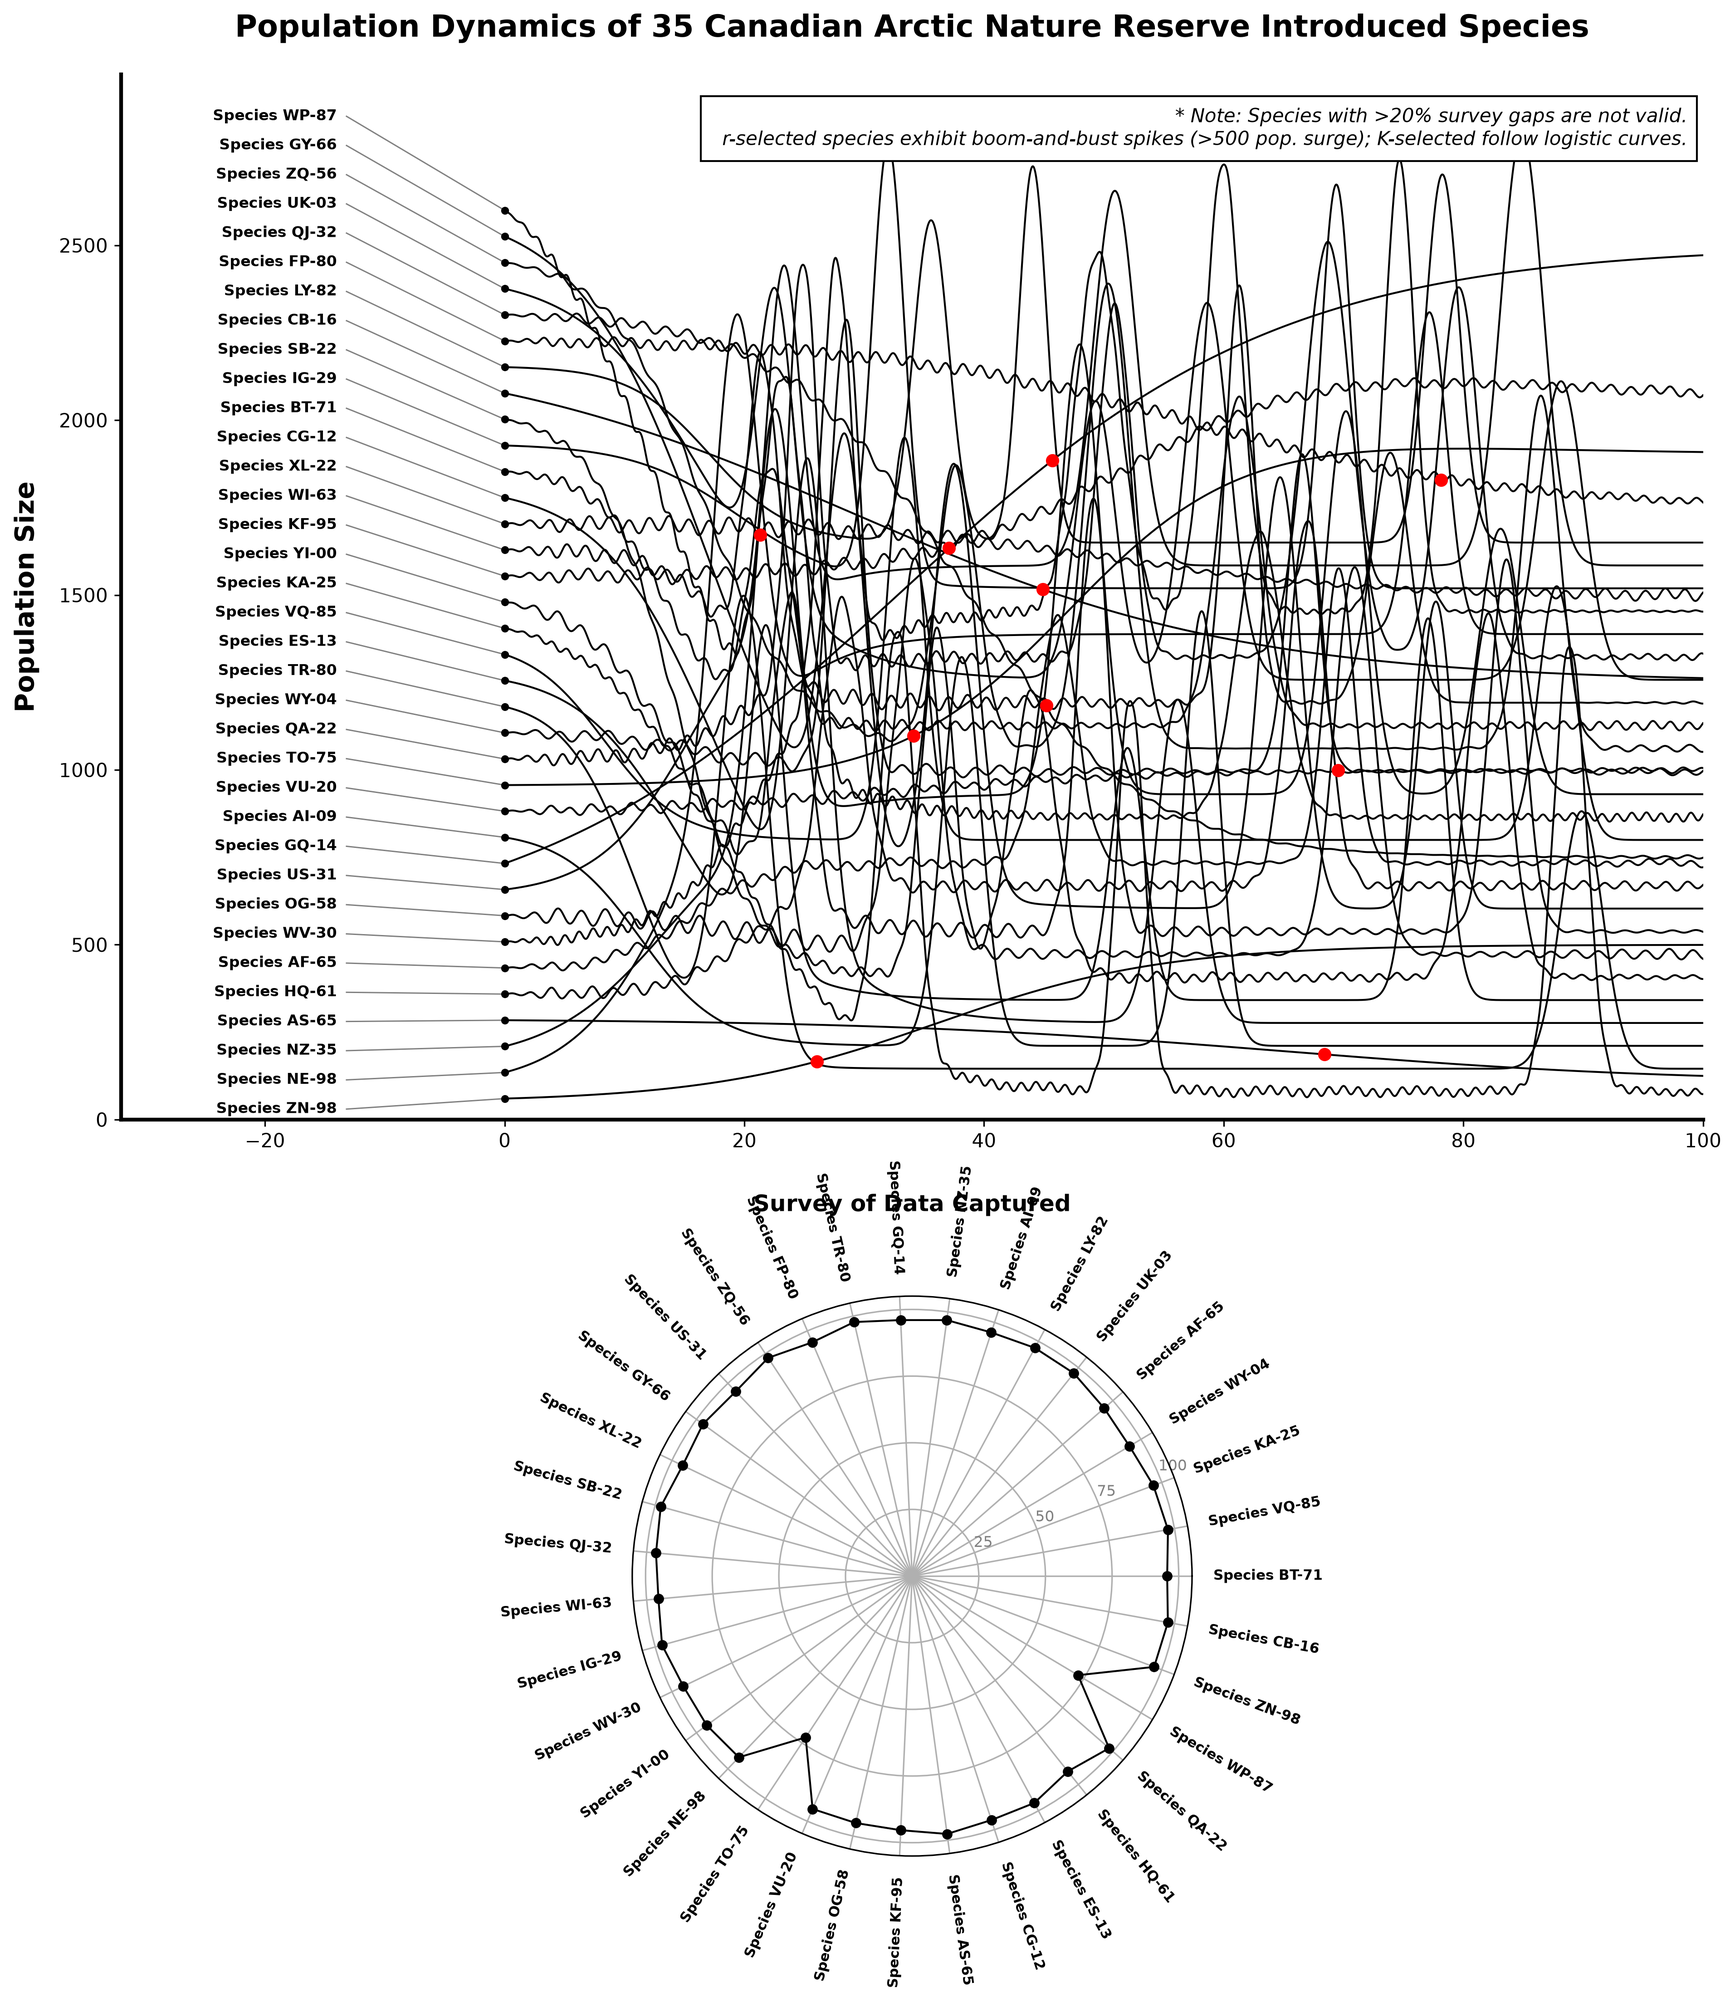
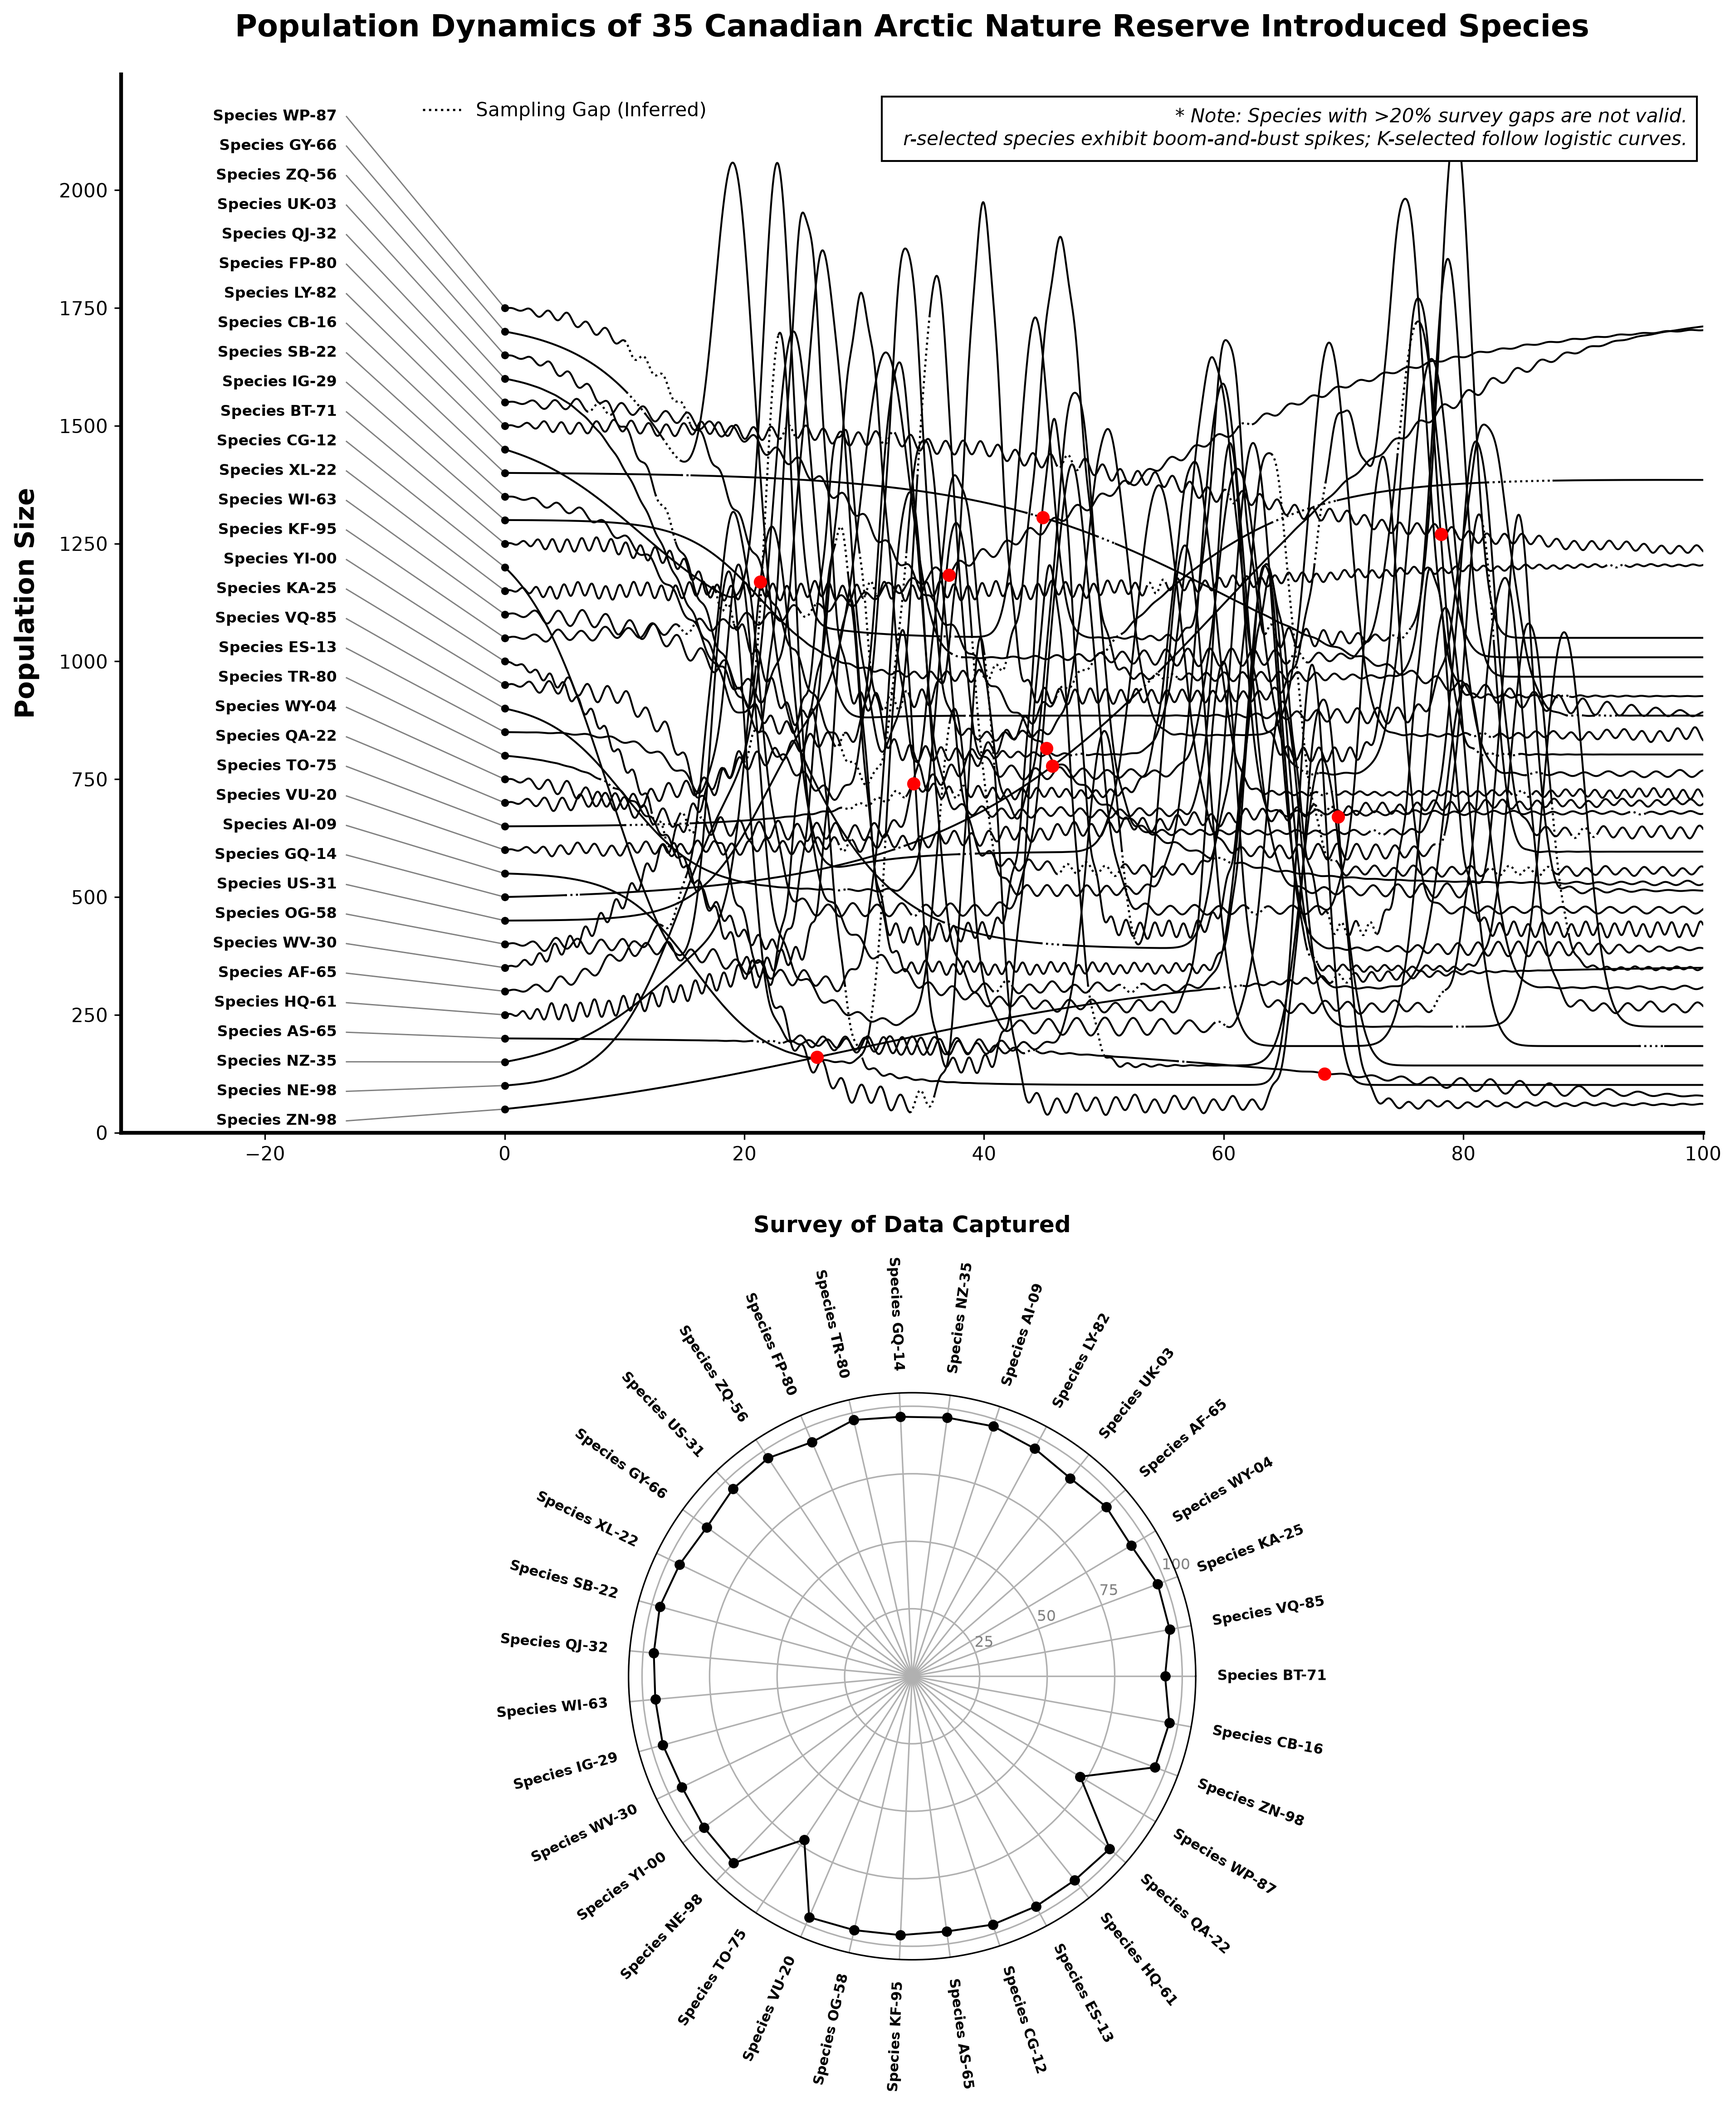
v14

diff --git a/generate-graph.py b/generate-graph.py
@@ -1,5 +1,6 @@
 import numpy as np
 import matplotlib.pyplot as plt
+import matplotlib.lines as mlines
 import json
 import random
 import string
@@ -35,8 +36,8 @@ while len(unique_codes) < 35:
 unique_codes = sorted(list(unique_codes))
 random.shuffle(unique_codes)
 
-# 1. GUARANTEE UNIQUE, EVENLY SPACED Y-ORIGINS AT X=0 (Minimum ~74 units apart)
-all_target_starts = list(np.linspace(60, 2600, 35))
+# 1. TIGHTER SPACING (Middle ground: ~49 units apart at t=0, distinct for humans but dense in the middle)
+all_target_starts = list(np.linspace(50, 1750, 35))
 random.shuffle(all_target_starts)
 k_starts = all_target_starts[:10]
 r_starts = all_target_starts[10:]
@@ -59,21 +60,34 @@ def inject_missing_data(pop_array, time_array, is_decoy=False):
         num_gaps = np.random.randint(2, 5)
         for _ in range(num_gaps):
             gap_start = np.random.uniform(5, 95)
-            gap_len = np.random.uniform(0.5, 2.0)
+            gap_len = np.random.uniform(0.8, 2.2)
             gap_mask = (time_array >= gap_start) & (time_array <= gap_start + gap_len)
             pop_array[gap_mask] = np.nan
     return pop_array
 
 
 def add_shatter_jitter(pop_array, time_array):
-    """Applies high-frequency seasonal wobble that is strictly 0 at t=0 to preserve origin separation."""
-    # Ramp ensures jitter is 0 at t=0 and reaches full strength by t=4
+    """Applies continuous high-frequency seasonal wobble (strictly 0 at t=0)."""
     ramp = np.minimum(1.0, time_array / 4.0)
     envelope = (0.5 + 0.3 * np.sin(time_array * np.random.uniform(0.02, 0.08)) +
                 0.2 * np.cos(time_array * np.random.uniform(0.01, 0.05))) * ramp
-    wobble1 = np.random.uniform(12, 26) * np.sin(time_array * np.random.uniform(3.0, 5.5))
+    wobble1 = np.random.uniform(12, 24) * np.sin(time_array * np.random.uniform(3.0, 5.5))
     wobble2 = np.random.randint(2, 8) * np.sin(time_array * np.random.uniform(0.8, 2.0))
     pop_array += (wobble1 + wobble2) * envelope
+    return pop_array
+
+
+def add_sectional_wobble(pop_array, time_array):
+    """Adds localized bursts of wobble to otherwise smooth curves so they aren't uniformly straight."""
+    ramp = np.minimum(1.0, time_array / 4.0)
+    num_patches = np.random.randint(1, 3)
+    for _ in range(num_patches):
+        center = np.random.uniform(18, 88)
+        span = np.random.uniform(4.5, 9.0)
+        # Gaussian window restricts the wobble to a specific time section
+        window = np.exp(-((time_array - center) ** 2) / (2 * span ** 2)) * ramp
+        wobble = np.random.uniform(10, 22) * np.sin(time_array * np.random.uniform(2.5, 5.0))
+        pop_array += wobble * window
     return pop_array
 
 
@@ -81,9 +95,8 @@ def add_shatter_jitter(pop_array, time_array):
 # POPULATION MATH (35 Species)
 # ==========================================
 
-# --- 10 K-selected species: Smooth logistic trajectories & gentle carrying-capacity shifts ---
-# Stratified end populations so K-curves spread cleanly across the entire vertical space
-k_ends = list(np.linspace(250, 2500, 10))
+# --- 10 K-selected species: Tighter vertical domain (180 to 1750) ---
+k_ends = list(np.linspace(180, 1750, 10))
 random.shuffle(k_ends)
 
 for i in range(10):
@@ -106,17 +119,20 @@ for i in range(10):
     norm_logistic = (raw_logistic - raw_0) / (1.0 - raw_0)
     pop = start_pop + (end_pop - start_pop) * norm_logistic
 
-    # Gentle carrying-capacity adjustment (replaces vertical crashes so K-selected never mimic r-selected busts)
+    # Gentle carrying-capacity adjustment
     if random.random() > 0.5:
         shift_time = np.random.uniform(50, 80)
-        shift_amp = np.random.uniform(-220, 220)
+        shift_amp = np.random.uniform(-180, 180)
         shift_rate = np.random.uniform(0.06, 0.12)
         s_raw = 1.0 / (1.0 + np.exp(-shift_rate * (t - shift_time)))
         s_0 = 1.0 / (1.0 + np.exp(-shift_rate * (0.0 - shift_time)))
         pop += shift_amp * (s_raw - s_0)
 
+    # 50% get full shatter jitter; the "smooth" 50% get localized sectional wobble
     if random.random() > 0.5:
         pop = add_shatter_jitter(pop, t)
+    else:
+        pop = add_sectional_wobble(pop, t)
 
     pop = np.clip(pop, 10, None)
     pop[0] = start_pop  # Lock exact t=0 value
@@ -124,10 +140,8 @@ for i in range(10):
     pop_gaps = inject_missing_data(pop.copy(), t, is_decoy)
     lines.append((pop_gaps, pop_full))
 
-
-# --- 25 r-selected species: Stratified baselines (no 0-400 pileup) + unmistakable boom-and-bust spikes ---
-# Spread baselines across 80 to 1650 so curves never stack into an unreadable black band at the bottom
-r_baselines = list(np.linspace(80, 1650, 25))
+# --- 25 r-selected species: Compressed baselines (60 to 1050) for denser crossings ---
+r_baselines = list(np.linspace(60, 1050, 25))
 random.shuffle(r_baselines)
 
 for i in range(25):
@@ -142,7 +156,7 @@ for i in range(25):
     target_start = float(r_starts[i])
     base_pop = float(r_baselines[i])
 
-    # Smooth transition from exact target_start at t=0 to the species' stratified baseline
+    # Smooth transition from exact target_start at t=0 to the species' baseline
     trans_mid = np.random.uniform(8, 22)
     trans_rate = np.random.uniform(0.18, 0.35)
     raw_trans = 1.0 / (1.0 + np.exp(-trans_rate * (t - trans_mid)))
@@ -150,16 +164,18 @@ for i in range(25):
     norm_trans = (raw_trans - raw_trans_0) / (1.0 - raw_trans_0)
     pop = target_start + (base_pop - target_start) * norm_trans
 
+    # 50% get full shatter jitter; the other 50% get localized sectional wobble
     if random.random() > 0.5:
         pop = add_shatter_jitter(pop, t)
+    else:
+        pop = add_sectional_wobble(pop, t)
 
-    # Every r-selected species gets 2 to 4 unmistakable boom-and-bust spikes (>650 prominence)
-    # Staggered across time windows so spikes cross cleanly at sharp 'X' angles instead of overlapping vertically
+    # 2 to 4 unmistakable boom-and-bust spikes (>550 prominence)
     num_spikes = np.random.randint(2, 5)
     windows = np.linspace(14, 92, num_spikes + 1)
     for w_idx in range(num_spikes):
         spike_time = np.random.uniform(windows[w_idx] + 2, windows[w_idx + 1] - 2)
-        spike_height = np.random.uniform(700, 1350)
+        spike_height = np.random.uniform(600, 1100)
         width = np.random.uniform(2.5, 7.5)
 
         spike_curve = spike_height * np.exp(-((t - spike_time) ** 2) / width)
@@ -177,7 +193,7 @@ random.shuffle(combined)
 labels, lines = zip(*combined)
 
 max_pop_value = max([np.nanmax(pop_full) for pop_gaps, pop_full in lines])
-y_limit = max(2800.0, max_pop_value * 1.06)
+y_limit = max(1950.0, max_pop_value * 1.05)
 
 with open("ground_truth.json", "w") as f:
     json.dump(ground_truth, f, indent=4)
@@ -187,22 +203,33 @@ print("Saved ground truth to ground_truth.json")
 # PLOTTING THE TWO-PANEL GRAPH
 # ==========================================
 
-fig = plt.figure(figsize=(15, 17))
-gs = fig.add_gridspec(2, 1, height_ratios=[2.8, 1.5], hspace=0.22)
+fig = plt.figure(figsize=(15, 18))
+gs = fig.add_gridspec(2, 1, height_ratios=[2.8, 1.5], hspace=0.32)
 ax1 = fig.add_subplot(gs[0])
 ax2 = fig.add_subplot(gs[1], polar=True)
 
 start_vals = [pop_full[0] for pop_gaps, pop_full in lines]
 sorted_indices = np.argsort(start_vals)
 
-# --- Top Panel: Trajectories ---
+# --- Top Panel: Trajectories with Dotted Sampling Gaps ---
 for pop_gaps, pop_full in lines:
     plot_mask = t <= 100
     z = random.randint(10, 100)
-    ax1.plot(t[plot_mask], pop_full[plot_mask], color='black', linewidth=1.0, solid_joinstyle='round', zorder=z)
+
+    # Isolate ONLY the missing gap segments (plus 1 boundary point on each side to connect cleanly)
+    nan_mask = np.isnan(pop_gaps)
+    gap_draw_mask = np.convolve(nan_mask.astype(int), [1, 1, 1], mode='same') > 0
+    pop_missing = np.where(gap_draw_mask, pop_full, np.nan)
+
+    # Plot dotted line strictly inside the sampling gaps
+    ax1.plot(t[plot_mask], pop_missing[plot_mask], color='black', linewidth=1.1,
+             linestyle=':', zorder=z)
+    # Plot solid line where survey data exists
+    ax1.plot(t[plot_mask], pop_gaps[plot_mask], color='black', linewidth=1.0,
+             solid_joinstyle='round', zorder=z + 1)
 
 # Evenly spaced label positions on the left margin
-text_y_positions = np.linspace(30, y_limit * 0.96, len(lines))
+text_y_positions = np.linspace(25, y_limit * 0.96, len(lines))
 
 for rank, idx in enumerate(sorted_indices):
     actual_y = start_vals[idx]
@@ -215,10 +242,14 @@ for rank, idx in enumerate(sorted_indices):
     # Small origin dot at t=0 so human reviewers can see each distinct starting point clearly
     ax1.scatter([0], [actual_y], color='black', s=10, zorder=160)
 
-# Clear, unambiguous note that defines the exact cutoff without giving away the count
+# Legend for the dotted sampling gaps
+gap_legend_line = mlines.Line2D([], [], color='black', linewidth=1.2, linestyle=':', label='Sampling Gap (Inferred)')
+ax1.legend(handles=[gap_legend_line], loc='upper left', bbox_to_anchor=(0.18, 0.99), fontsize=10, frameon=False)
+
+# Note defines the life-history rule qualitatively without giving away the numeric value
 ax1.text(0.99, 0.97,
          "* Note: Species with >20% survey gaps are not valid.\n"
-         "  r-selected species exhibit boom-and-bust spikes (>500 pop. surge); K-selected follow logistic curves.",
+         "  r-selected species exhibit boom-and-bust spikes; K-selected follow logistic curves.",
          transform=ax1.transAxes, ha='right', va='top', fontsize=10, color='black', fontstyle='italic',
          bbox=dict(facecolor='white', edgecolor='black', pad=5), zorder=250)
 
@@ -268,7 +299,8 @@ for label_text, angle in zip(labels, angles):
     ax2.text(angle, 113, label_text, rotation=rotation, ha=ha, va='center',
              rotation_mode='anchor', fontsize=7.5, fontweight='bold', clip_on=False)
 
-ax2.set_title("Survey of Data Captured", fontsize=12, fontweight='bold', pad=45)
+# Increased pad from 45 to 85 so the title clears the top vertical spoke labels cleanly
+ax2.set_title("Survey of Data Captured", fontsize=12, fontweight='bold', pad=85)
 
 plt.tight_layout()
 plt.savefig("population_dynamics.png", dpi=300, bbox_inches='tight')
